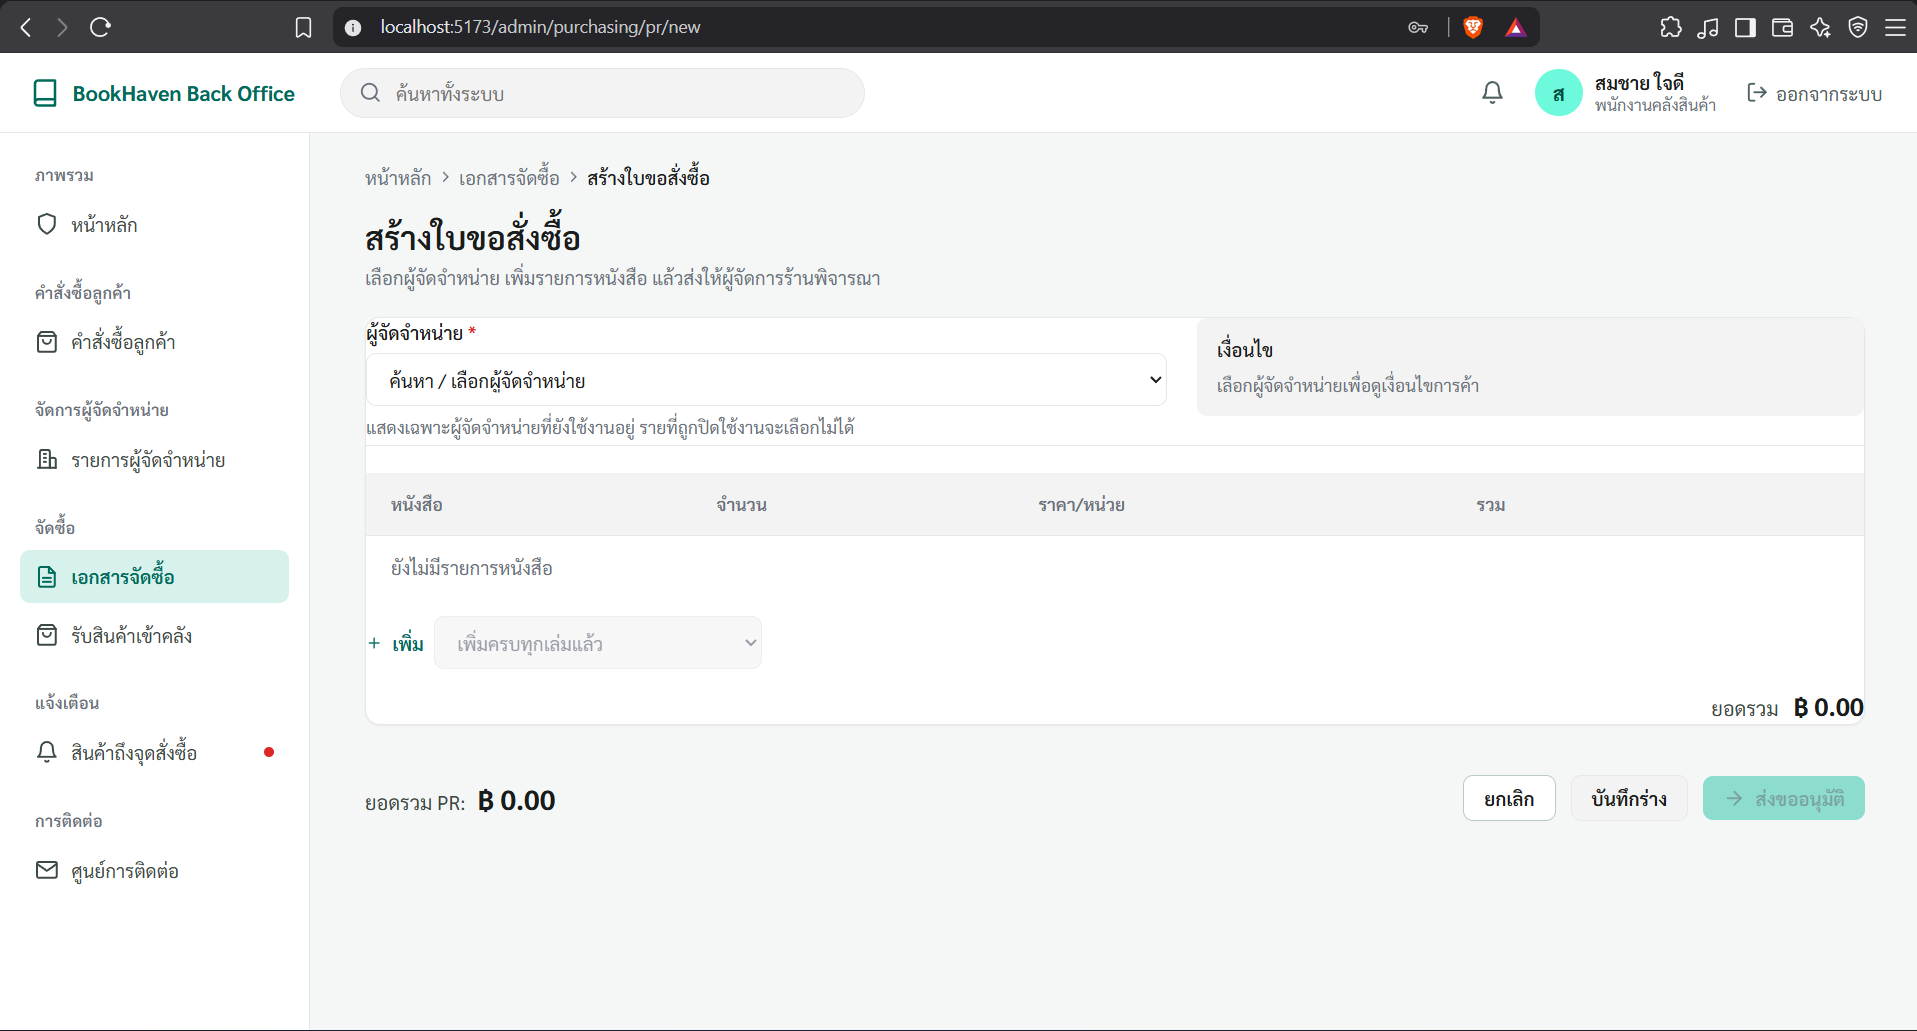
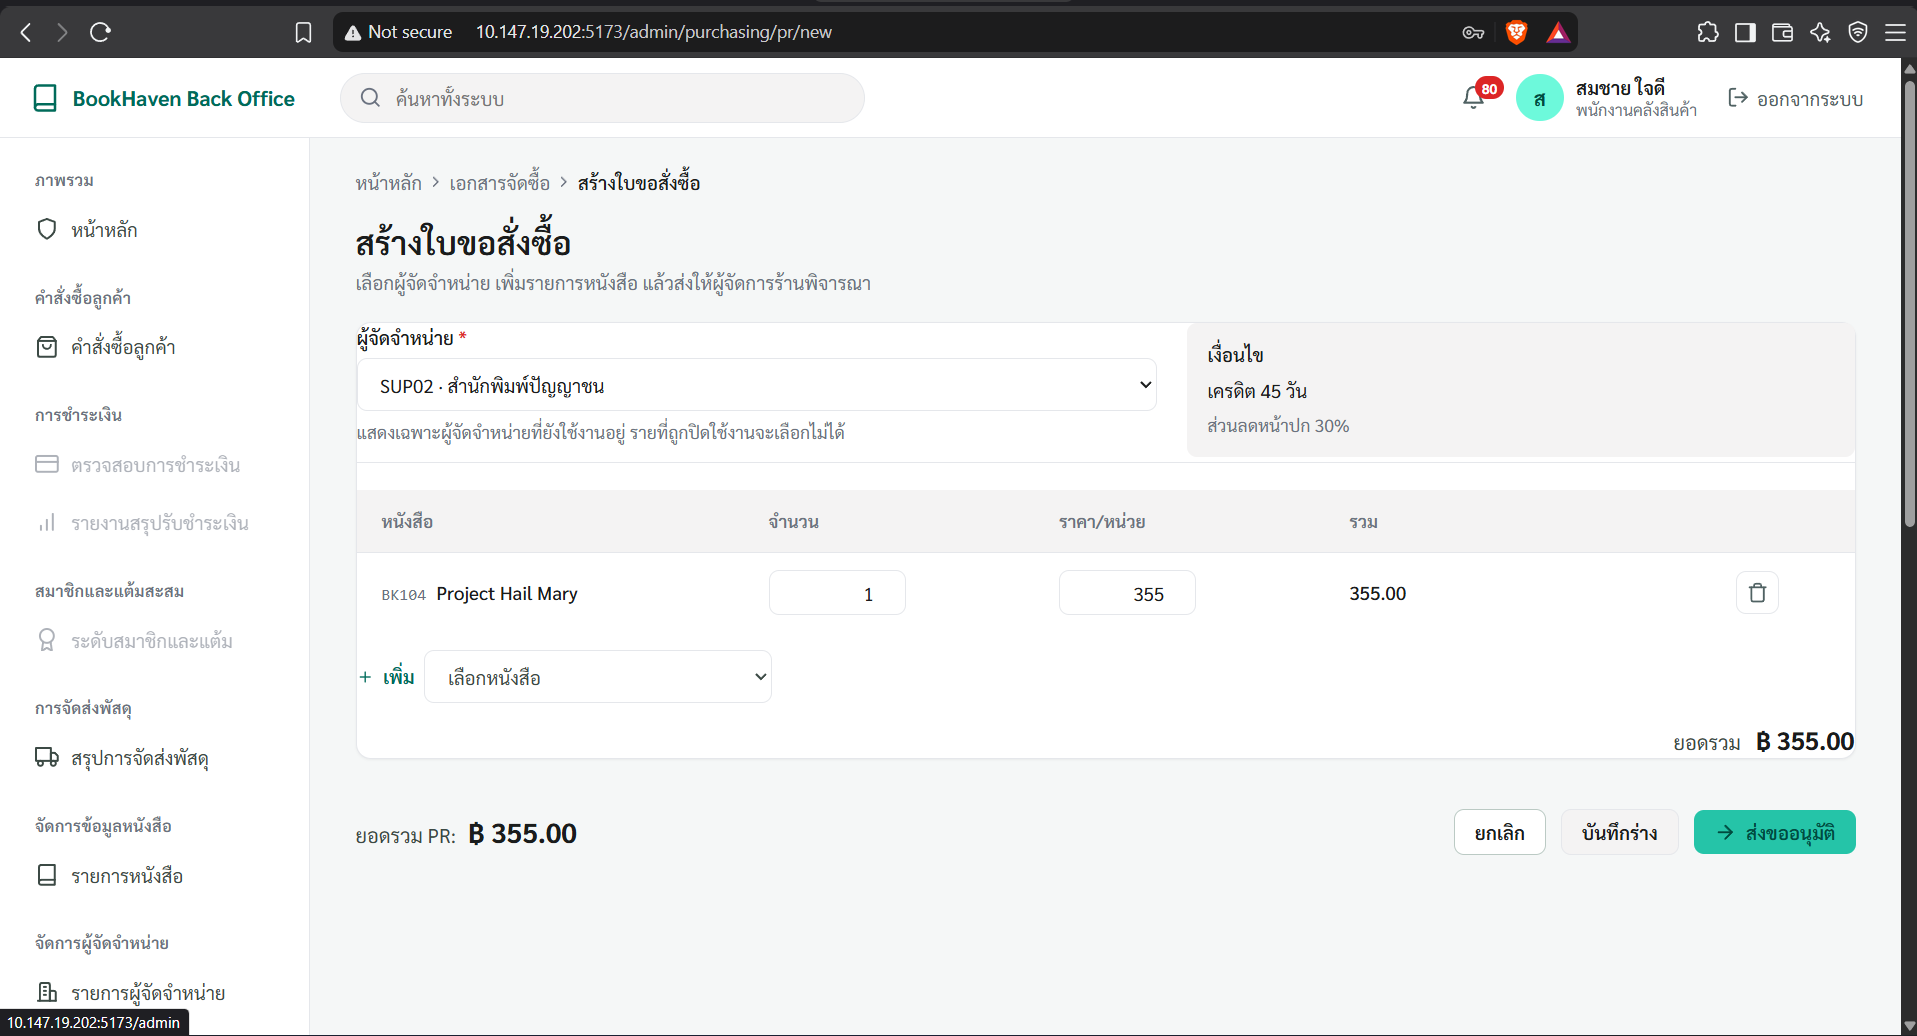
Detect supplier book edits; add test and cleanup
Make describeChanges detect edits to supplier books (price/lead time/bookId), not just count changes: added booksChanged() and switched describeChanges to use it. Added unit tests (backend/internal/service/supplier_test.go) covering price/lead time/add/remove/bookId-change cases. Also applied non-functional cleanups: remove a QA report file, update .gitignore and .gitattributes, small doc/comment fixes across backend/frontend, minor frontend fixes (SupplierFormPage loading/error handling and related form adjustments), and some ui-example image renames. These edits are mostly wording/organizational, except the supplier comparison logic and its tests which are functional.

diff --git a/frontend/src/admin/pages/SupplierFormPage.tsx b/frontend/src/admin/pages/SupplierFormPage.tsx
@@ -38,10 +38,8 @@ const LABELS: Record<FieldName, string> = {
 const EMAIL_PATTERN = /^[^\s@]+@[^\s@]+\.[^\s@]+$/
 
 // แถวหนึ่งของ supplier_book — ตารางนี้เป็นเจ้าของแค่สามฟิลด์นี้
-//
-// ชื่อ / ผู้แต่ง / สำนักพิมพ์ / ISBN เป็นของตาราง book และเลือกได้จากแคตตาล็อกเท่านั้น
-// (`SupplierBook "*" --> "1" Book` ใน class diagram) · เดิมฟอร์มนี้ให้พิมพ์เองพร้อมสร้าง
-// bookId จาก Date.now() ซึ่งเขียนลงฐานจริงไม่ได้เพราะติด FK supplier_book.book_id -> book
+// ชื่อ / ผู้แต่ง / สำนักพิมพ์ / ISBN เป็นของตาราง book เลือกจากแคตตาล็อกเท่านั้น
+// (`SupplierBook "*" --> "1" Book` ใน class diagram · FK supplier_book.book_id -> book)
 type BookRow = {
   bookId: number
   supplyPrice: number
@@ -54,16 +52,43 @@ const emptyBook = (bookId: number): BookRow => ({
   leadTimeDays: 0,
 })
 
-// The form seeds its state from the supplier being edited, so it has to be
-// remounted when the route switches to a different id.
+// ด่าน loading/error ต้องอยู่ที่ตัวห่อ ไม่ใช่ในฟอร์ม เพราะฟอร์มตั้งค่าเริ่มต้นด้วย useState
+// ครั้งเดียวตอน mount และตัวกรองรายการหนังสือตอน submit อ้าง catalogue จาก useBooks()
+// ถ้าปล่อยให้ฟอร์ม mount ตั้งแต่ catalogue ยังไม่พร้อม การกดบันทึกจะส่ง books ว่าง
+// แล้วรายการหนังสือของผู้จัดจำหน่ายรายนั้นถูกลบทั้งชุด
 export default function SupplierFormPage() {
   const { id } = useParams()
+  const suppliers = useSuppliers()
+  const books = useBooks()
+
+  if (suppliers.loading || books.loading) {
+    return (
+      <div className="admin-page">
+        <section className="admin-card">
+          <LoadingState label="กำลังโหลดข้อมูลผู้จัดจำหน่าย…" />
+        </section>
+      </div>
+    )
+  }
+
+  if (suppliers.error || books.error) {
+    const message = suppliers.error ?? books.error ?? ''
+    const retry = suppliers.error ? suppliers.reload : books.reload
+    return (
+      <div className="admin-page">
+        <section className="admin-card">
+          <ErrorState message={message} onRetry={() => void retry()} />
+        </section>
+      </div>
+    )
+  }
+
   return <SupplierForm key={id ?? 'new'} id={id} />
 }
 
 function SupplierForm({ id }: { id?: string }) {
   const { user } = useAuth()
-  const { findById, findByCompanyName, add, update, loading, error, reload } = useSuppliers()
+  const { findById, findByCompanyName, add, update } = useSuppliers()
   const { books: catalogue } = useBooks()
   const { notify } = useToast()
   const navigate = useNavigate()
@@ -101,26 +126,6 @@ function SupplierForm({ id }: { id?: string }) {
             description="การเพิ่มและแก้ไขข้อมูลเป็นสิทธิ์ของพนักงานคลังสินค้าเท่านั้น"
             action={{ label: 'กลับไปหน้ารายการ', onClick: () => navigate('/admin/suppliers') }}
           />
-        </section>
-      </div>
-    )
-  }
-
-  if (loading) {
-    return (
-      <div className="admin-page">
-        <section className="admin-card">
-          <LoadingState label="กำลังโหลดข้อมูลผู้จัดจำหน่าย…" />
-        </section>
-      </div>
-    )
-  }
-
-  if (error) {
-    return (
-      <div className="admin-page">
-        <section className="admin-card">
-          <ErrorState message={error} onRetry={() => void reload()} />
         </section>
       </div>
     )

diff --git a/frontend/src/admin/notifications/NotificationContext.tsx b/frontend/src/admin/notifications/NotificationContext.tsx
@@ -4,8 +4,7 @@ import { useResource } from '../../api/useResource'
 import { useAuth } from '../../auth/AuthContext'
 import { isEmployee, type Role } from '../../auth/roles'
 
-// ข้อมูลอยู่ในตาราง notification ของ PostgreSQL แล้ว
-// เดิมเก็บใน localStorage คีย์ bookhaven.notifications.v1
+// ข้อมูลอยู่ในตาราง notification ของ PostgreSQL
 //
 // **หน้าจอไม่สร้างการแจ้งเตือนเองอีกแล้ว** — เซิร์ฟเวอร์เขียนแถวให้ในทรานแซกชันเดียวกับ
 // งานธุรกิจที่เป็นต้นเหตุ (อนุมัติใบขอสั่งซื้อ · รับสินค้า · ตรวจนับพบผลต่าง · เปลี่ยนสถานะ

diff --git a/frontend/src/admin/purchasing/PurchasingContext.tsx b/frontend/src/admin/purchasing/PurchasingContext.tsx
@@ -17,8 +17,7 @@ import {
 } from './purchasing'
 
 // ข้อมูลอยู่ในตาราง purchase_requisition / purchase_order / goods_receipt /
-// purchase_return (+ ตารางลูก) ของ PostgreSQL แล้ว
-// เดิมเป็น blob ก้อนเดียวใน localStorage คีย์ bookhaven.purchasing.v1
+// purchase_return (+ ตารางลูก) ของ PostgreSQL
 //
 // **สี่ขั้นตอนของ U7/U9/U10 อยู่ในทรานแซกชันเดียวฝั่งเซิร์ฟเวอร์แล้ว** — การออกใบสั่งซื้อ
 // ตอนอนุมัติ · การเพิ่มยอดสต็อกตอนรับสินค้า · การตัดสต็อกตอนส่งคืน · การแจ้งเตือน

diff --git a/frontend/src/data/covers.ts b/frontend/src/data/covers.ts
@@ -1,6 +1,6 @@
 // covers.ts — ภาพปกหนังสือ แมปด้วย `book_id` ของฐานข้อมูล
 //
-// ตาราง `book` ไม่มีคอลัมน์รูปปก (ดู class diagram ของวุฒิภัทร) ปกจึงยังเป็นไฟล์
+// ตาราง `book` ไม่มีคอลัมน์รูปปก (ดู class diagram) ปกจึงยังเป็นไฟล์
 // ในโปรเจกต์ ไม่ใช่ข้อมูล · Vite แปลง import เหล่านี้เป็น URL ที่มี hash ให้ตอน build
 //
 // มีปกจริง 14 เล่ม (101–114) ส่วนเล่มไทย 115–123 ยังไม่มีไฟล์ปก —

diff --git a/frontend/src/admin/orders/OrderContext.tsx b/frontend/src/admin/orders/OrderContext.tsx
@@ -8,7 +8,6 @@ import { type CustomerOrder, type OrderStatus } from './orders'
 // ข้อมูลอยู่ในตาราง customer_order / customer_order_item /
 // customer_order_status_history ของ PostgreSQL แล้ว
 // (ชื่อตารางเป็น customer_order ไม่ใช่ order เพราะ ORDER เป็นคำสงวนของ SQL)
-// เดิมเก็บใน localStorage คีย์ bookhaven.orders.v1
 //
 // เซิร์ฟเวอร์กรองให้ตามผู้เรียกอยู่แล้ว: พนักงานเห็นทุกใบ ลูกค้าเห็นเฉพาะของตัวเอง
 const loadOrders = () => apiGet<CustomerOrder[]>('/api/orders')

diff --git a/frontend/src/admin/books/BookContext.tsx b/frontend/src/admin/books/BookContext.tsx
@@ -11,8 +11,7 @@ import {
   type Category,
 } from './books'
 
-// ข้อมูลอยู่ในตาราง book / category / book_change_log ของ PostgreSQL แล้ว
-// เดิมเก็บใน localStorage คีย์ bookhaven.books.v1
+// ข้อมูลอยู่ในตาราง book / category / book_change_log ของ PostgreSQL
 //
 // หมวดหมู่โหลดคู่กันเพราะทุกหน้าที่แสดงหนังสือต้องใช้ชื่อหมวดหมู่ และเปลี่ยนแปลงน้อยมาก
 // (`GET /api/categories` เป็น read-only — ตารางนี้ backfill จาก migrate.go)

diff --git a/frontend/src/admin/reviews/ReviewContext.tsx b/frontend/src/admin/reviews/ReviewContext.tsx
@@ -7,8 +7,7 @@ import { useOrders } from '../orders/OrderContext'
 import { ORDER_STATUS_LABELS, formatOrderCode } from '../orders/orders'
 import type { ModerateAction, Review, ReviewReply, ReviewStatus } from './reviews'
 
-// ข้อมูลอยู่ในตาราง review / review_reply / review_report ของ PostgreSQL แล้ว
-// เดิมเก็บใน localStorage คีย์ bookhaven.reviews.v5
+// ข้อมูลอยู่ในตาราง review / review_reply / review_report ของ PostgreSQL
 //
 // Book metadata comes from reviewDTO's existing database join. Order metadata
 // is joined from OrderContext; absent relationships stay absent, never mocked.

diff --git a/frontend/src/admin/inventory/InventoryContext.tsx b/frontend/src/admin/inventory/InventoryContext.tsx
@@ -12,8 +12,7 @@ import {
 } from './inventory'
 
 // ข้อมูลอยู่ในตาราง inventory_item / stock_transaction / stock_count / stock_count_item
-// / stock_discrepancy_report ของ PostgreSQL แล้ว · เดิมเป็น blob ก้อนเดียวใน localStorage
-// คีย์ bookhaven.inventory.v3
+// / stock_discrepancy_report ของ PostgreSQL
 //
 // สามชุดนี้เป็นคนละ endpoint จึงยิงขนานกันแล้วรวมเป็นก้อนเดียวให้หน้าจอเหมือนเดิม
 const loadInventory = async () => {

diff --git a/frontend/src/data/catalogue.ts b/frontend/src/data/catalogue.ts
@@ -76,7 +76,7 @@ export const loadCatalogueBook = (bookId: number) =>
   apiGet<CatalogueDetail>(`/api/catalogue/${bookId}`)
 
 /**
- * ค้นหาแบบเดียวกับ `Book.search()` ของวุฒิภัทร — ชื่อเรื่อง / ผู้แต่ง / ISBN
+ * ค้นหาแบบเดียวกับ `Book.search()` — ชื่อเรื่อง / ผู้แต่ง / ISBN
  * แบบไม่สนตัวพิมพ์ · คำค้นว่างถือว่าผ่านทุกเล่ม
  */
 export function matchesSearch(book: CatalogueBook, keyword: string): boolean {

diff --git a/frontend/src/pages/HomePage.tsx b/frontend/src/pages/HomePage.tsx
@@ -15,7 +15,7 @@ const ALL_CATEGORIES = 0
 export default function HomePage() {
   const [params] = useSearchParams()
   // ช่องค้นหาอยู่บน TopNav ส่งค่ามาทาง ?q= · ค้นแบบเดียวกับ Book.search()
-  // ของวุฒิภัทร (ชื่อเรื่อง / ผู้แต่ง / ISBN แบบไม่สนตัวพิมพ์)
+  // (ชื่อเรื่อง / ผู้แต่ง / ISBN แบบไม่สนตัวพิมพ์)
   const query = params.get('q') ?? ''
   const term = query.trim().toLowerCase()
 

diff --git a/frontend/src/admin/reviews/reviews.ts b/frontend/src/admin/reviews/reviews.ts
@@ -87,7 +87,7 @@ export const MODERATE_ACTION_LABELS: Record<ModerateAction, string> = {
 }
 
 /**
- * คำต้องห้ามของ `ProfanityFilter` ตาม class diagram ของดวงกมล
+ * คำต้องห้ามของ `ProfanityFilter` ตาม class diagram
  *
  * **การติดธงเกิดฝั่งเซิร์ฟเวอร์แล้ว** (`Review.Submit` → `model.ProfanityFilter.CheckText`)
  * รายการนี้จึงเหลือไว้เป็น "สัญญา" ที่ `TestProfanityFilterWordsMatchFrontend`

diff --git a/frontend/src/admin/suppliers/SupplierContext.tsx b/frontend/src/admin/suppliers/SupplierContext.tsx
@@ -6,7 +6,6 @@ import { can } from '../permissions'
 import type { Deactivation, Supplier } from './suppliers'
 
 // ข้อมูลอยู่ในตาราง supplier / supplier_book / supplier_edit_log / supplier_deactivation
-// ของ PostgreSQL แล้ว · เดิมเก็บใน localStorage คีย์ bookhaven.suppliers.v2
 //
 // ประกาศไว้ระดับโมดูลเพื่อให้ useResource ได้ฟังก์ชันที่อ้างอิงคงที่
 const loadSuppliers = () => apiGet<Supplier[]>('/api/suppliers')
